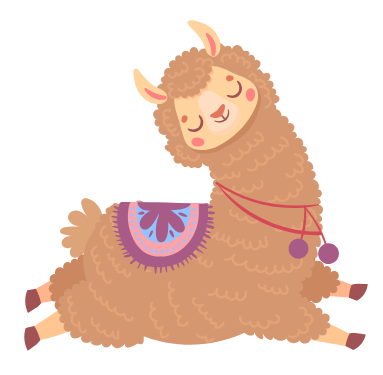
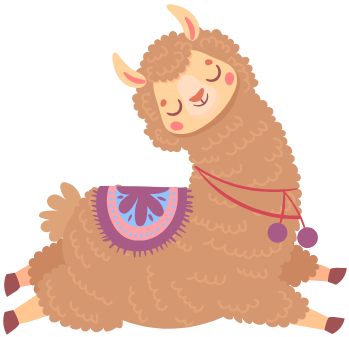
storage the name of the player with localStorage

Changed region(s): [[0.0, 0.0, 1.0, 1.0], [0.5731, 0.2967, 0.659, 0.3858]]

diff --git a/styles/style.css b/styles/style.css
@@ -13,8 +13,12 @@ body {
 #game-start,
 #game-screen,
 #game-end {
-    width: 100%;
+    /* width: 100%;
     height: 470px;
+    display: none; */
+    width: 1000px;
+    height: 470px;
+    margin: 0 auto; 
     display: none;
 }
 
@@ -23,7 +27,7 @@ body {
     flex-direction: column;
     align-items: center;
     justify-content: center;
-    /* background-color: #fdf2d5; */
+    background-color: #fdf2d5;
 }
 
 .logo-img {
@@ -39,11 +43,25 @@ body {
     line-height: 6px;
 }
 
+#player-name {
+    width: 300px;
+    padding: 12px;
+    margin: 8px 0;
+    display: inline-block;
+    border: 1px solid #b6aba7;
+    border-radius: 4px;
+    box-sizing: border-box;
+}
+
+#player-name:focus {
+    outline: none;
+    box-shadow: 0px 0px 4px #f17445;
+}
+
 #start-button,
 #restart-button {
     background-color: #f17445;
     color: #fdf2d5;
-    /* border: 3px solid #80502c;*/
     border: none; 
     padding: 10px 20px;
     font-size: 25px;
@@ -58,7 +76,7 @@ body {
     width: 265px;
     height: auto;
     margin-left: 620px;
-    margin-top: -325px;
+    margin-top: -390px;
 }
 
 #game-screen {
@@ -120,6 +138,16 @@ body {
     color: #5b4842;    
 }
 
+.alpaca-running {
+    position: absolute;
+    animation: runMove 0.5s steps(2) infinite;
+}
+
+@keyframes runMove {
+    0% { transform: translateY(0) rotate(0deg); }
+    50% { transform: translateY(-2px) rotate(-1deg); }
+    100% { transform: translateY(0) rotate(0deg); }
+}
 
 #ground {
     position: absolute;    
@@ -136,12 +164,11 @@ body {
   to { transform: translateX(-50%); }
 }
 
-
 #game-end {
     display: none;
     align-items: center;           
     justify-content: center;       
-    height: 100vh;
+    /* height: 100vh; */
     background-color: #fdf2d5;
 }
 
@@ -155,21 +182,20 @@ body {
     display: flex;
     flex-direction: column;        
     align-items: flex-start;      
-    gap: 20px;
+    color: #5b4842;
 }
 
 .game-over-text h1 {
     font-size: 48px;
     margin: 0;
-    color: #5b4842;
 }
 
-.final-score {
-    color: #5b4842;
-    margin: 0;
+.final-score{
+    margin: 10px 0 0 0;
 }
 
 #high-scores {
+    margin: 0;
     font-weight: bolder;
     text-decoration: none;
 }
@@ -177,16 +203,4 @@ body {
 .alpaca-resting {
     height: 400px;                 
     width: auto;
-}
-
-/* alpaca running */
-.alpaca-running {
-    position: absolute;
-    animation: runMove 0.5s steps(2) infinite;
-}
-
-@keyframes runMove {
-    0% { transform: translateY(0) rotate(0deg); }
-    50% { transform: translateY(-2px) rotate(-1deg); }
-    100% { transform: translateY(0) rotate(0deg); }
 }

diff --git a/js/game.js b/js/game.js
@@ -132,20 +132,26 @@ class Game {
         this.gameScreen.style.display = 'none';
         this.gameEnd.style.display = 'flex';
 
-        //this.finalScoreElement.innerText = this.score;
-        const highScoresFromLS = JSON.parse(localStorage.getItem("high-scores"));
+        const playerName = localStorage.getItem("player-name") || "Player";
+        const highScoresFromLS = JSON.parse(localStorage.getItem("high-scores")) || [];
+
+        const newEntry = {
+            name: playerName,
+            score: this.score,
+        };
+
         if(!highScoresFromLS) {
-            localStorage.setItem("high-scores", JSON.stringify([this.score]));
+            localStorage.setItem("high-scores", JSON.stringify([newEntry]));
         } else {
-            highScoresFromLS.push(this.score);
-            highScoresFromLS.sort((a, b) => b - a);
+            highScoresFromLS.push(newEntry);
+            highScoresFromLS.sort((a, b) => b.score - a.score);
 
             const topThreeScores = highScoresFromLS.splice(0, 3);
             localStorage.setItem("high-scores", JSON.stringify(topThreeScores));
 
-            topThreeScores.forEach((oneScore) => {
+            topThreeScores.forEach((entry) => {
                 const liElement = document.createElement("li");
-                liElement.innerText = oneScore;
+                liElement.innerText = `${entry.name}: ${entry.score}`;
                 this.highScoresElement.appendChild(liElement);
             });
         }

diff --git a/index.html b/index.html
@@ -20,6 +20,7 @@
                 <p>2. Avoid hazards to finish the level;</p>
                 <p>3. grab donuts to get more life!</p>
             </div>
+            <input id="player-name" type="text" placeholder="Type your name" />
             <button id="start-button">PLAY</button>
             <img src="./images/start-page-alpaca.png" alt="alpaca head" class="start-page-alpaca"/>
         </div>
@@ -42,8 +43,8 @@
             <div class="game-over-content">
                 <div class="game-over-text">
                     <h1>Game Over</h1>
-                    <h4 class="final-score"> Best scores: </h4>
-                        <span id="high-scores">0</span>
+                    <h4 class="final-score">Best scores:</h4>
+                    <ol id="high-scores"></ol>
                     <button id="restart-button">PLAY AGAIN</button>
                 </div>
                 <img src="./images/alpaca-resting.png" alt="alpaca resting" class="alpaca-resting" />

diff --git a/js/obstacle.js b/js/obstacle.js
@@ -8,8 +8,8 @@ class Obstacle {
             {name: 'cactus', src:"../images/cactus.png", width: 40, height: 45, top: 360 },
             {name: 'small-cactus', src:"../images/small-cactus.png", width: 40, height: 45, top: 370 },
             {name: 'pot-cactus', src:"../images/pot-cactus.png", width: 40, height: 45, top: 360 },
-            {name: 'rock', src:"../images/rock.png", width: 40, height: 45, top: 380 }, 
-            {name: 'stone', src:"../images/stone.png", width: 40, height: 45, top: 380 },
+            {name: 'rock', src:"../images/rock.png", width: 40, height: 35, top: 380 }, 
+            {name: 'stone', src:"../images/stone.png", width: 40, height:35, top: 380 },
         ];
 
         const randomType = this.types[Math.floor(Math.random() * this.types.length)];

diff --git a/js/script.js b/js/script.js
@@ -3,6 +3,14 @@ const startBtn = document.getElementById("start-button");
 const restartBtn = document.getElementById("restart-button");
 
 startBtn.addEventListener("click", () => {
+    const nameInput = document.getElementById("player-name").value.trim();
+
+    if(nameInput) {
+        localStorage.setItem("player-name", nameInput);
+    } else {
+        localStorage.setItem("player-name", "Player");
+    }
+
     startGame();
 });
 

diff --git a/README.md b/README.md
@@ -20,6 +20,8 @@ The core functionality of the game is now defined by these features:
 
     - Score Tracking: Points are awarded for successfully clearing an obstacle without collision.
 
+    - High Score Board: Implemented the storage, retrieval, and display of the top 3 high scores and corresponding player names using local storage.
+
     - Multiple Obstacles: An array manages different obstacle types (rocks, cactus) on the track.
 
     - Lives System: A dedicated system tracks and displays player lives.
@@ -32,13 +34,9 @@ The core functionality of the game is now defined by these features:
 
 *List of features to implement after the current MVP is stable.*
 
-- Implement a high score board using local storage for persistence.
-
 - Implement the double-jump mechanic for added player agility.
 
 - Introduce more complex obstacles like fast-moving fences and tricky river jumps.
-
-- Improve the visual difficulty by changing the parallax speed over time.
 
 ## ⚙ Data Structure
 
@@ -64,7 +62,7 @@ The game has three main states (screens) managed by DOM manipulation:
 
 2. GAME: The active play state. Displays the player, obstacles, score, and lives. Transitions to **GAME_OVER**.
 
-3. GAME_OVER: The end state. Displays the final score and a "Play Again" button. Transitions back to **START**.
+3. GAME_OVER: The end state. Displays the final score, a form for the player's name (if they achieved a high score), the list of the top 3 high scores, and a "Play Again" button. Transitions back to **START**.
 
 ## 📝 Task Prioritization
 
